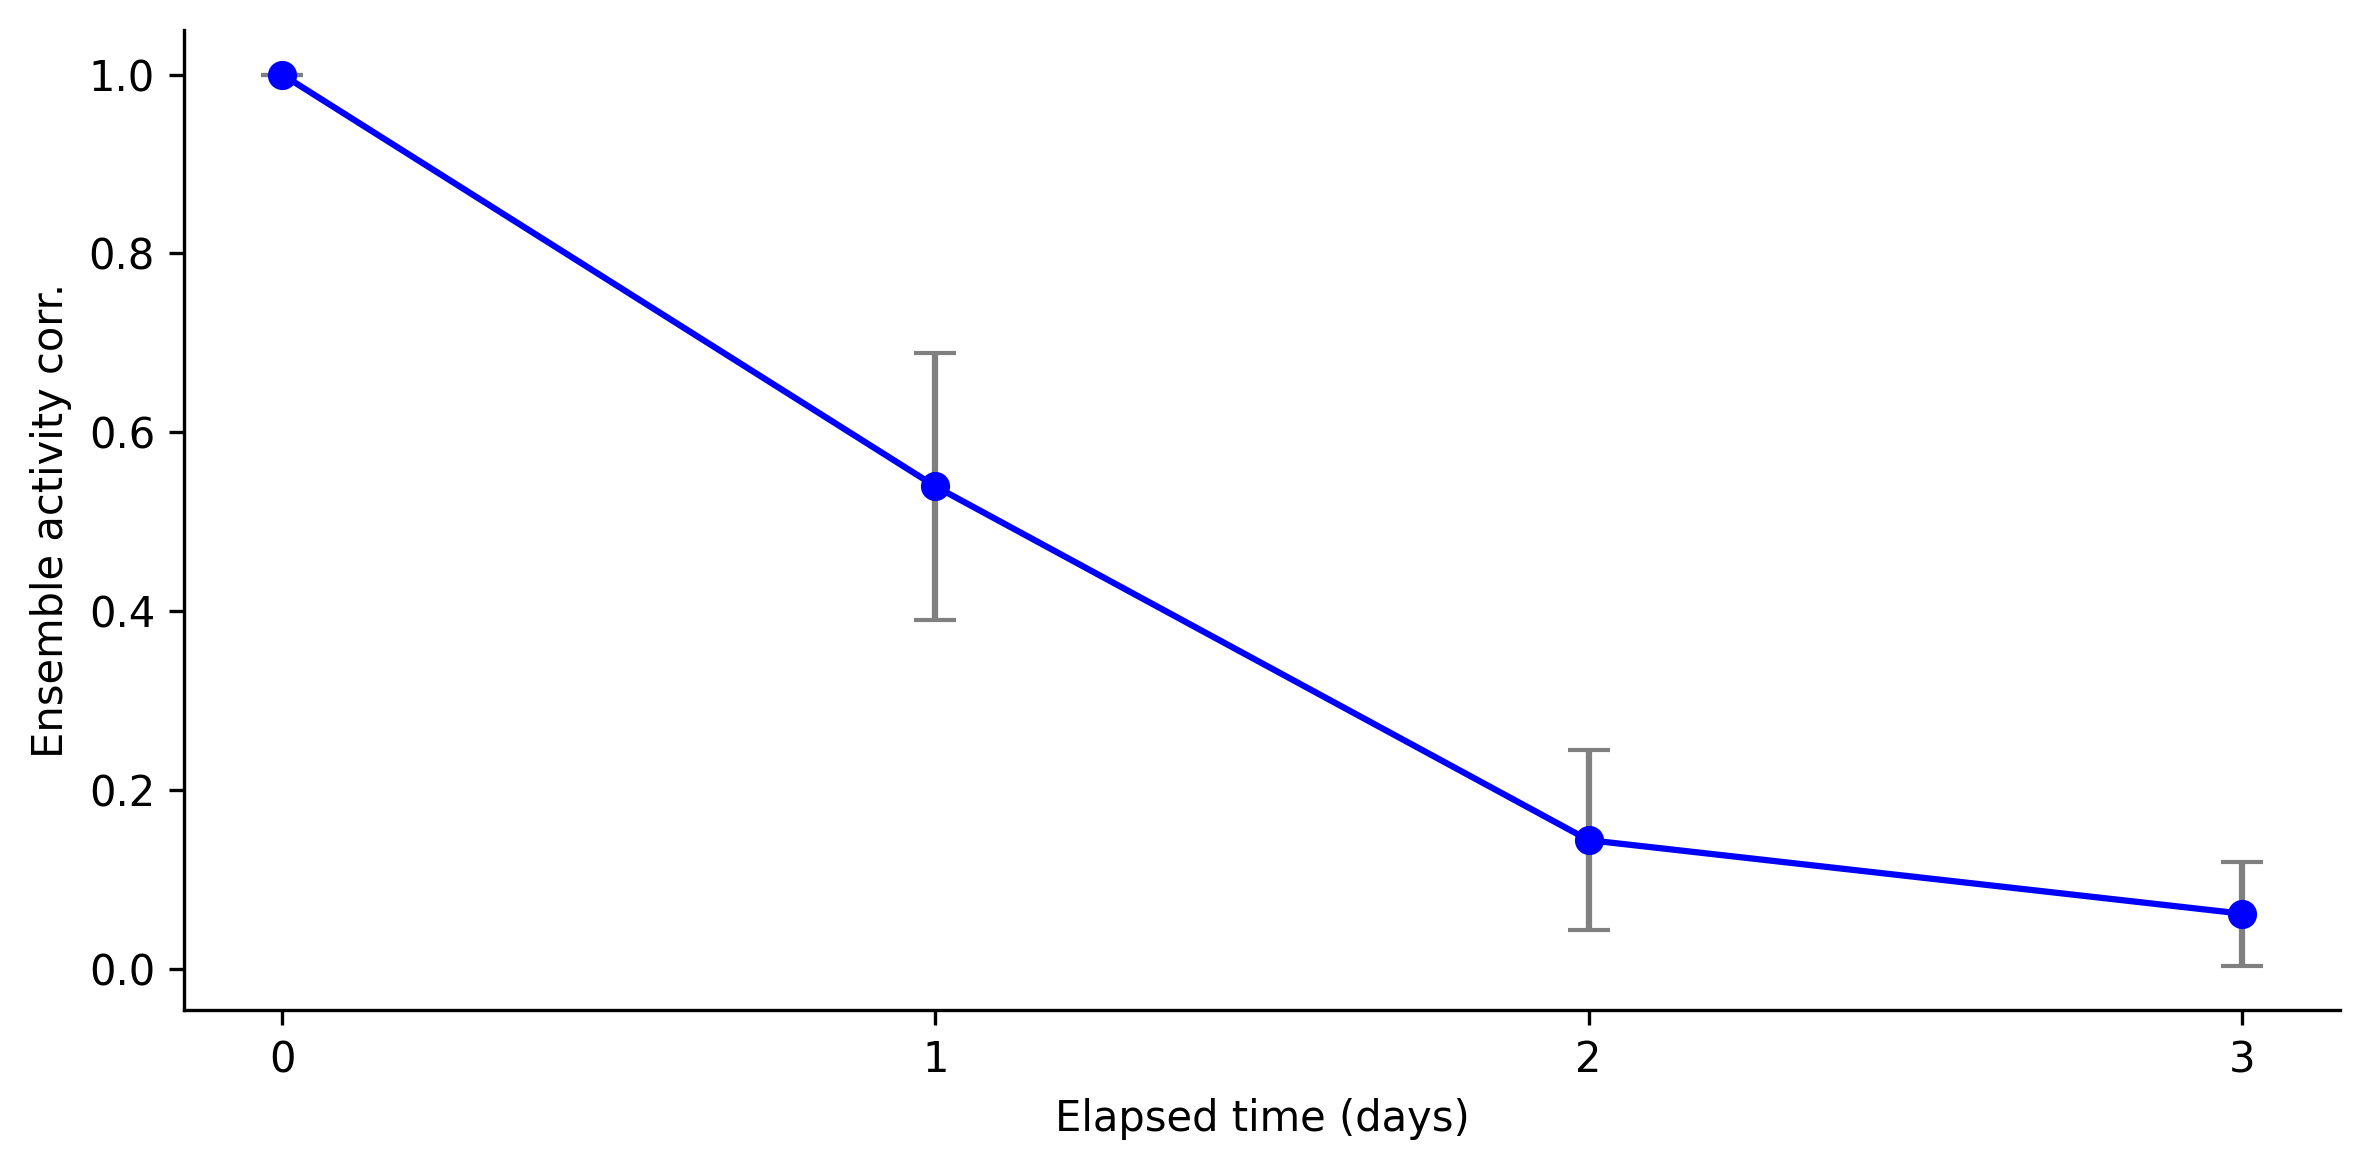
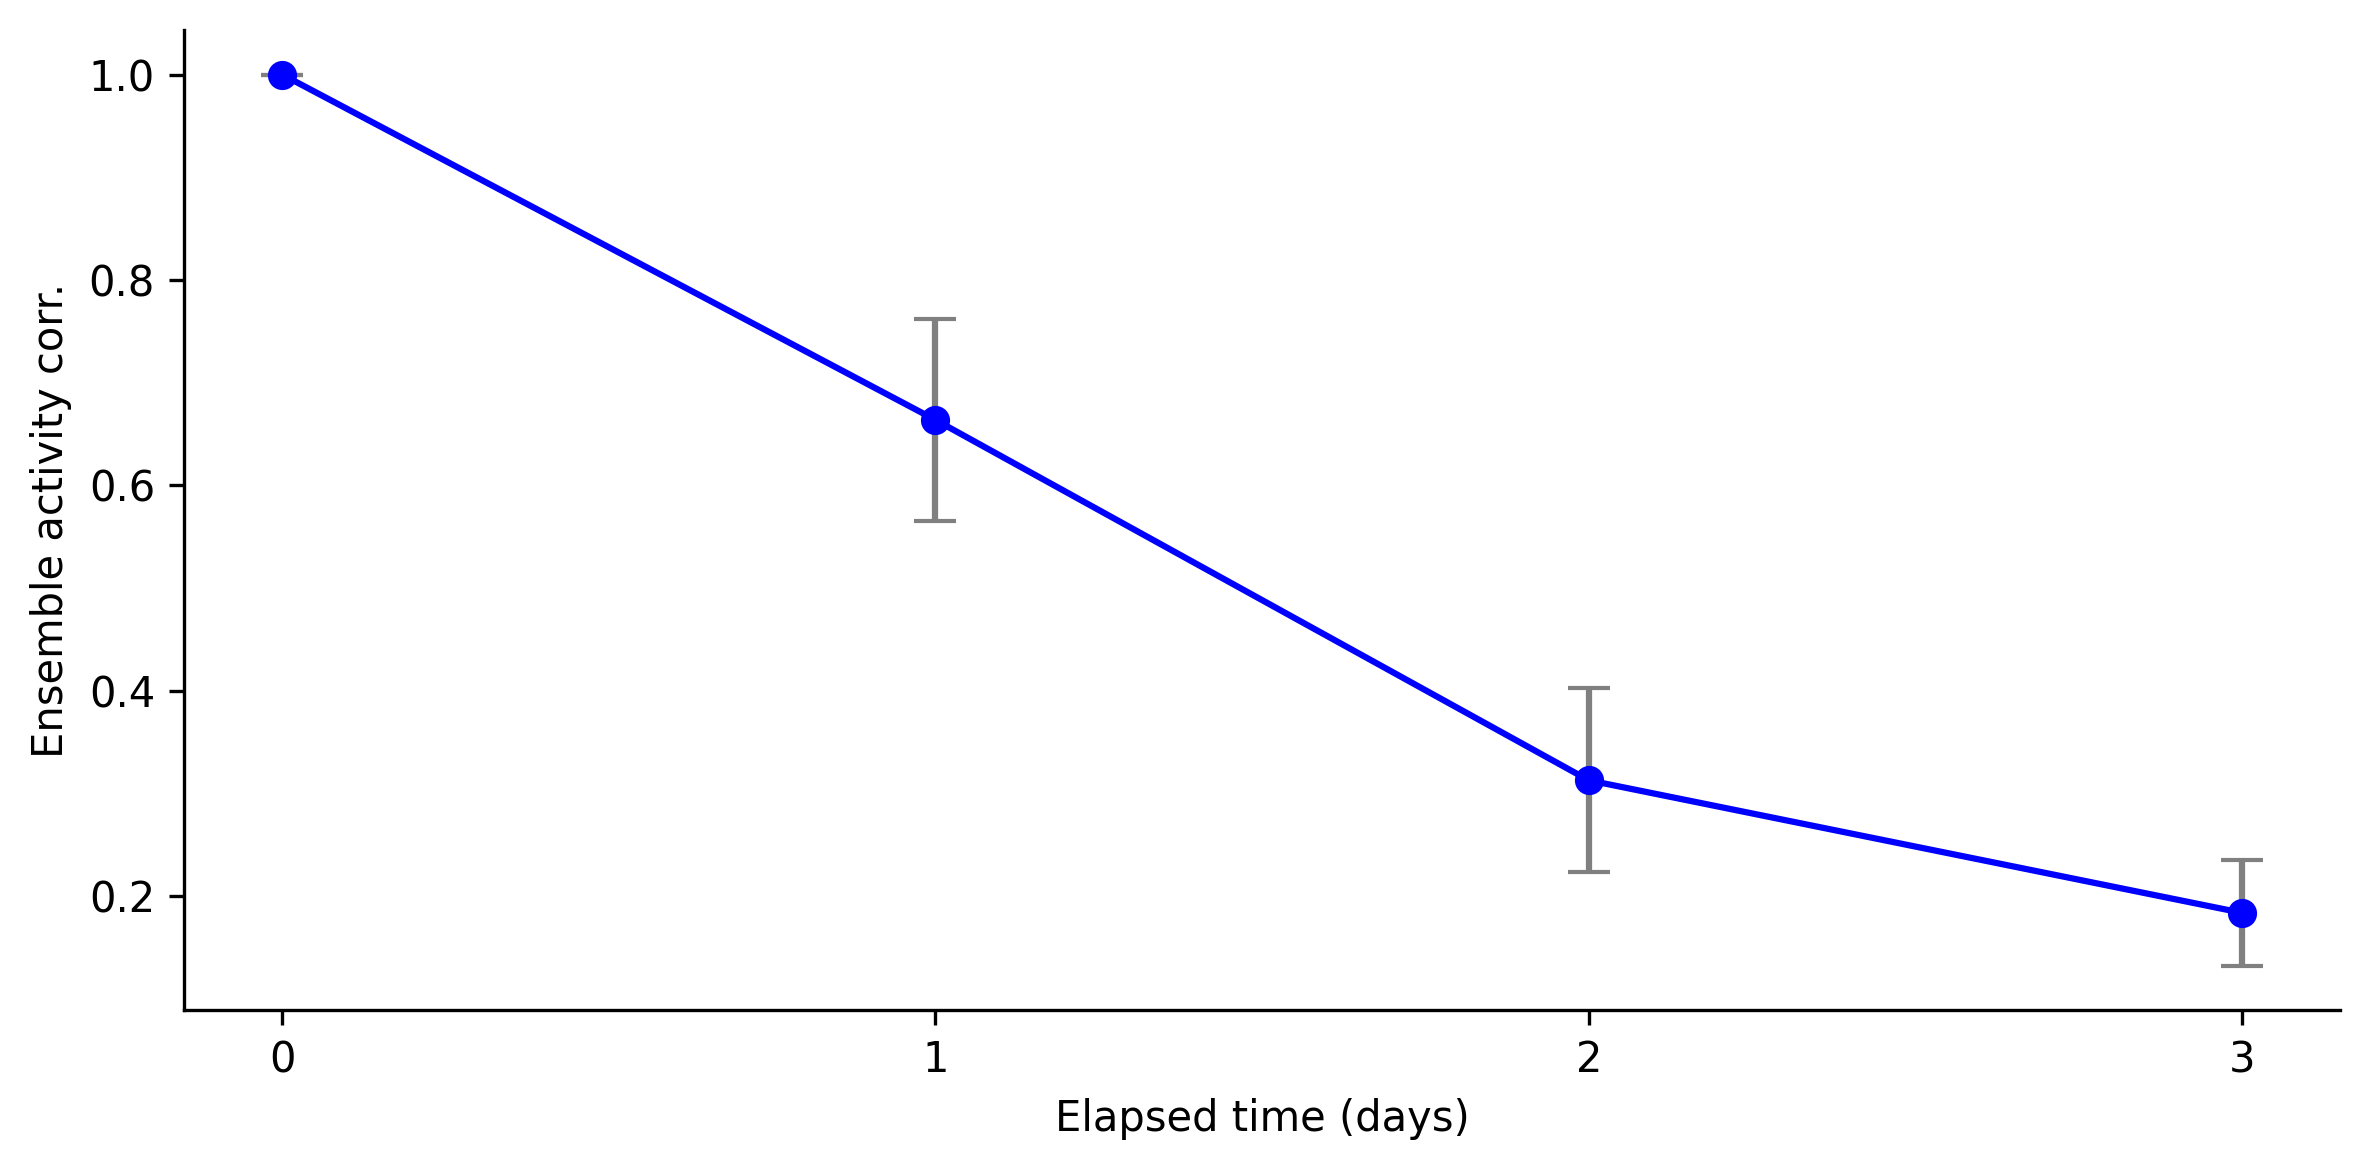
consecutive day correlation decreases with increase in excitability

diff --git a/plaotting_widget.py b/plaotting_widget.py
@@ -1,6 +1,9 @@
 import os
 import matplotlib.pyplot as plt
+import matplotlib.gridspec as gridspec
 import numpy as np
+# import seaborn as sns
+
 def ensure_dir_exists(file_path):
     """
     Ensures that the directory for the given file path exists.
@@ -78,7 +81,39 @@ def plot_activities(activity1, activity2, title,var_name, fname, color1='red', c
     # save_plot(fname)  # Uncomment if saving is needed
     plt.show()
     
-def plot_weights_over_time(weights, titles, fname, cmaps='hot'):
+def plot_weights_over_time(weights, titles, fname, cmaps='hot',title_fontsize=14, tick_fontsize=10, colorbar_fontsize=10):
+    """
+    Plots weight matrices from different time points in one row.
+
+    Args:
+        weights: List of 2D numpy arrays representing weights.
+        titles: List of titles for each subplot.
+        fname: Filename to save the complete figure.
+        cmaps: List of colormaps (or a single colormap) for the subplots.
+    """
+    num_plots = len(weights)
+    fig = plt.figure(figsize=(5 * num_plots, 5))
+    gs = gridspec.GridSpec(1, num_plots + 1, width_ratios=[1] * num_plots + [0.05], wspace=0.3)
+
+    ims = []
+    for idx, (w, title) in enumerate(zip(weights, titles)):
+        cmap = cmaps[idx] if isinstance(cmaps, list) else cmaps
+        ax = fig.add_subplot(gs[0, idx])
+        im = ax.imshow(w, cmap=cmap, interpolation='nearest', aspect='auto')
+        ims.append(im)
+        ax.set_title(title, fontsize=title_fontsize)
+        ax.tick_params(labelsize=tick_fontsize)
+
+    # Shared colorbar
+    cax = fig.add_subplot(gs[0, -1])
+    cbar = fig.colorbar(ims[0], cax=cax)
+    cbar.ax.tick_params(labelsize=colorbar_fontsize)
+
+    plt.tight_layout()
+    save_plot(fname)
+    plt.show()
+    
+def plot_activity_n_excitability_time(weights, titles, fname, cmaps='hot',title_fontsize=14, tick_fontsize=10, colorbar_fontsize=10):
     """
     Plots weight matrices from different time points in one row.
 
@@ -94,15 +129,17 @@ def plot_weights_over_time(weights, titles, fname, cmaps='hot'):
     for idx, (w, title) in enumerate(zip(weights, titles)):
         cmap = cmaps[idx] if isinstance(cmaps, list) else cmaps
 
-        plt.subplot(1, num_plots, idx + 1)
-        plt.title(title)
-        plt.imshow(w, cmap=cmap, interpolation='nearest', aspect='auto')
-        plt.colorbar()
+        ax = plt.subplot(1, num_plots, idx + 1)
+        im = ax.imshow(w, cmap=cmap, interpolation='nearest', aspect='auto')
+        ax.set_title(title, fontsize=title_fontsize)
+        ax.tick_params(labelsize=tick_fontsize)
+
+        cbar = plt.colorbar(im)
+        cbar.ax.tick_params(labelsize=colorbar_fontsize)
 
     plt.tight_layout()
     save_plot(fname)
     plt.show()
-
 def plot_row_correlations(data_3d, fname):
     """
     Plots the correlation between the reference row and all other rows in the matrix.
@@ -145,3 +182,43 @@ def plot_row_correlations(data_3d, fname):
     save_plot(fname)
     plt.show()
 
+def plot_consecutive_day_correlation(data_3d,fname):
+    """
+    Plots average neuron correlation (with std) between consecutive days, repetition-wise.
+
+    Parameters:
+        data_3d (np.ndarray): 3D array of shape (days, repetitions, neurons)
+    """
+    days, reps, neurons = data_3d.shape
+    mean_corrs = []
+    std_corrs = []
+    day_labels = []
+
+    for day in range(1, days):
+        rep_corrs = []
+        for rep in range(reps):
+            corr = np.corrcoef(data_3d[day - 1, rep], data_3d[day, rep])[0, 1]
+            rep_corrs.append(corr)
+        mean_corrs.append(np.mean(rep_corrs))
+        std_corrs.append(np.std(rep_corrs))
+        day_labels.append(f"{day-1}-{day}")
+
+    # Plot with error bars
+    plt.figure(figsize=(8, 4))
+    plt.errorbar(
+        x=range(1, days),
+        y=mean_corrs,
+        yerr=std_corrs,
+        fmt='-o',
+        capsize=5,
+        ecolor='gray',
+        color='green'
+    )
+    plt.title("Neuron Correlation Between Consecutive Days")
+    plt.xlabel("Day Pair")
+    plt.ylabel("Correlation")
+    plt.xticks(ticks=range(1, days), labels=day_labels)
+    plt.ylim(-1, 1)
+    # plt.grid(True)
+    save_plot(fname)
+    plt.show()

diff --git a/Delamare_etal_2023_elife.py b/Delamare_etal_2023_elife.py
@@ -1,7 +1,7 @@
 import ANNarchy as ann
 import matplotlib.pyplot as plt
 import numpy as np
-from plaotting_widget import before_after_weights, plot_activity,plot_weights_over_time,plot_row_correlations
+from plaotting_widget import plot_activity_n_excitability_time,plot_weights_over_time,plot_row_correlations,plot_consecutive_day_correlation
 
 
 LIneuron = ann.Neuron(
@@ -62,7 +62,7 @@ ID = 1000 #inter-day delay
 delta = 35 # input current
 theta = 5 #threshold firing rate for active neurons
 c = 1 #cap pn recurrent weights
-E = 1.5 # excitability increase factor for neurons
+E = 3 # excitability increase factor for neurons
 thr = 1
 # normal distribution parameters for excitability
 mu = 0
@@ -87,7 +87,7 @@ for i in range(num_days):
     for j in range(Nrep):
         seed = j
         # setting a random seed
-        np.random.seed(seed)
+        np.random.default_rng(j)
         # stim_phase 
         # input is set for all neurons in the population
         E_pop[:].input_i = np.array(num_HPC_E_neuron*[delta])
@@ -123,13 +123,15 @@ inps =E_input_monitor.get('inp').T
 # before_after_weights(weights[3],weights[4],"days3-4","./plots/delamare_2024_F1d2.png",cmaps= 'gray')
 rs = np.where(rs > thr, rs, 0)
 # breakpoint()
-plot_weights_over_time([rs,exs],
+E_name = str(E).replace('.','_')
+plot_activity_n_excitability_time([rs,exs],
                        titles=['Neuronal Activity',
                                 'Neuronal Excitability'],
-                       fname="./plots/delamare_2024_F1AB.png",
+                       fname="./plots/E_%s/delamare_2024_F1AB.png"%E_name,
                        cmaps=['Blues', 'Greens', 'Reds'])
 plot_weights_over_time(weights,
                        titles=[f'Day {i+1}' for i in range(len(weights))],
-                       fname="./plots/delamare_2024_F1C.png",
+                       fname="./plots/E_%s/delamare_2024_F1C.png"%E_name,
                        cmaps='gray_r')
-plot_row_correlations(np.array(activity_vector), fname="./plots/delamare_2024_F2A.png")
+plot_row_correlations(np.array(activity_vector), fname="./plots/E_%s/delamare_2024_F2A.png"%E_name)
+plot_consecutive_day_correlation(np.array(activity_vector), fname="./plots/E_%s/dayN_N_1_corr.png"%E_name)
